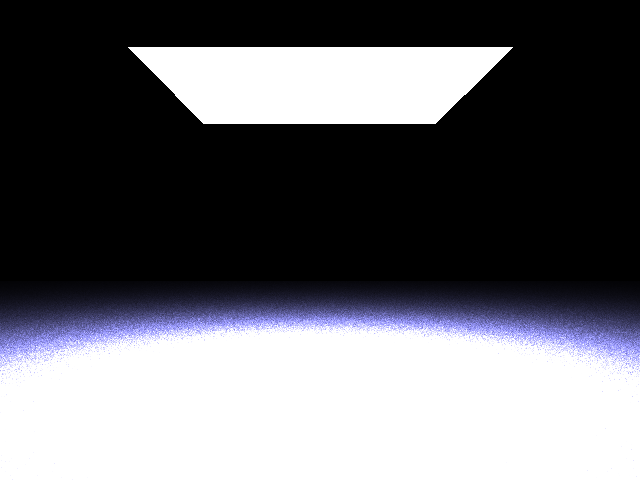
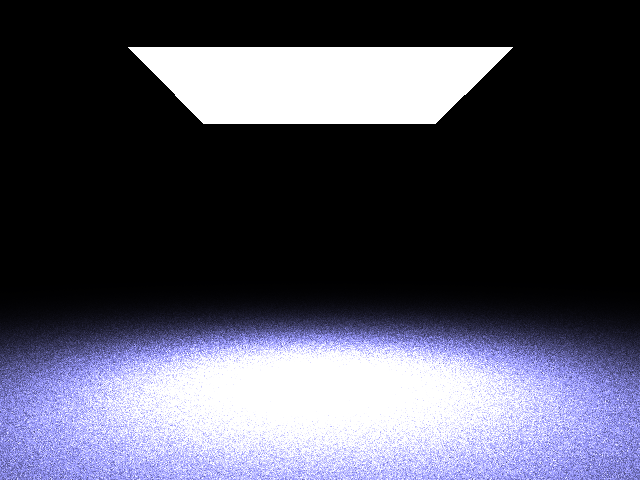
Closer to Monte Carlo solution for 9 samples but too much energy and too much noise

Changed region(s): [[0.0, 0.5938, 1.0, 1.0]]

diff --git a/HW1/CPU_PathTracer/src/raytracer.cpp b/HW1/CPU_PathTracer/src/raytracer.cpp
@@ -755,7 +755,7 @@ glm::vec3 MonteCarloFindColor(UniformGrid* grid, const Ray& ray, Scene* scene, C
 
 			float reflectVecDotWi = glm::dot(reflectVector, dir);
 			glm::vec3 brdf = (intersection->hitObjectDiffuse / (float)M_PI) + (intersection->hitObjectSpecular * ((intersection->hitObjectShininess * 2) / (float)M_2_PI)) * (glm::pow(reflectVecDotWi, intersection->hitObjectShininess));
-			float G = (1.0f / glm::length(intersection->intersectionPoint - sampleLightPoint)) * std::max(glm::dot(intersection->hitObjectNormal, (glm::normalize(sampleLightPoint - intersection->intersectionPoint))), 0.0f) * glm::dot(lightNormal, (glm::normalize(sampleLightPoint - intersection->intersectionPoint)));
+			float G = (1.0f / pow(glm::length(intersection->intersectionPoint - sampleLightPoint),2.0f)) * std::max(glm::dot(intersection->hitObjectNormal, (glm::normalize(sampleLightPoint - intersection->intersectionPoint))), 0.0f) * glm::dot(lightNormal, (glm::normalize(sampleLightPoint - intersection->intersectionPoint)));
 			directLight += brdf * G;
 		}
 
@@ -788,7 +788,7 @@ int main() {
 	float ambientR = 0, ambientG = 0, ambientB = 0;
 	float diffuseR = 0, diffuseG = 0, diffuseB = 0;
 	float specularR = 0, specularG = 0, specularB = 0;
-	float shininess = 32;
+	float shininess = 0;
 	float emissionR = 0, emissionG = 0, emissionB = 0;
 	float dirLightX, dirLightY, dirLightZ;
 	float dirLightR, dirLightG, dirLightB;

diff --git a/HW1/CPU_PathTracer/src/Triangle.h b/HW1/CPU_PathTracer/src/Triangle.h
@@ -42,5 +42,5 @@ public:
 	glm::vec3 diffuse, specular, emission, ambient;
 	float shininess;
 	texture* matTexture;
-	bool isLight;
+	bool isLight = false;
 };
